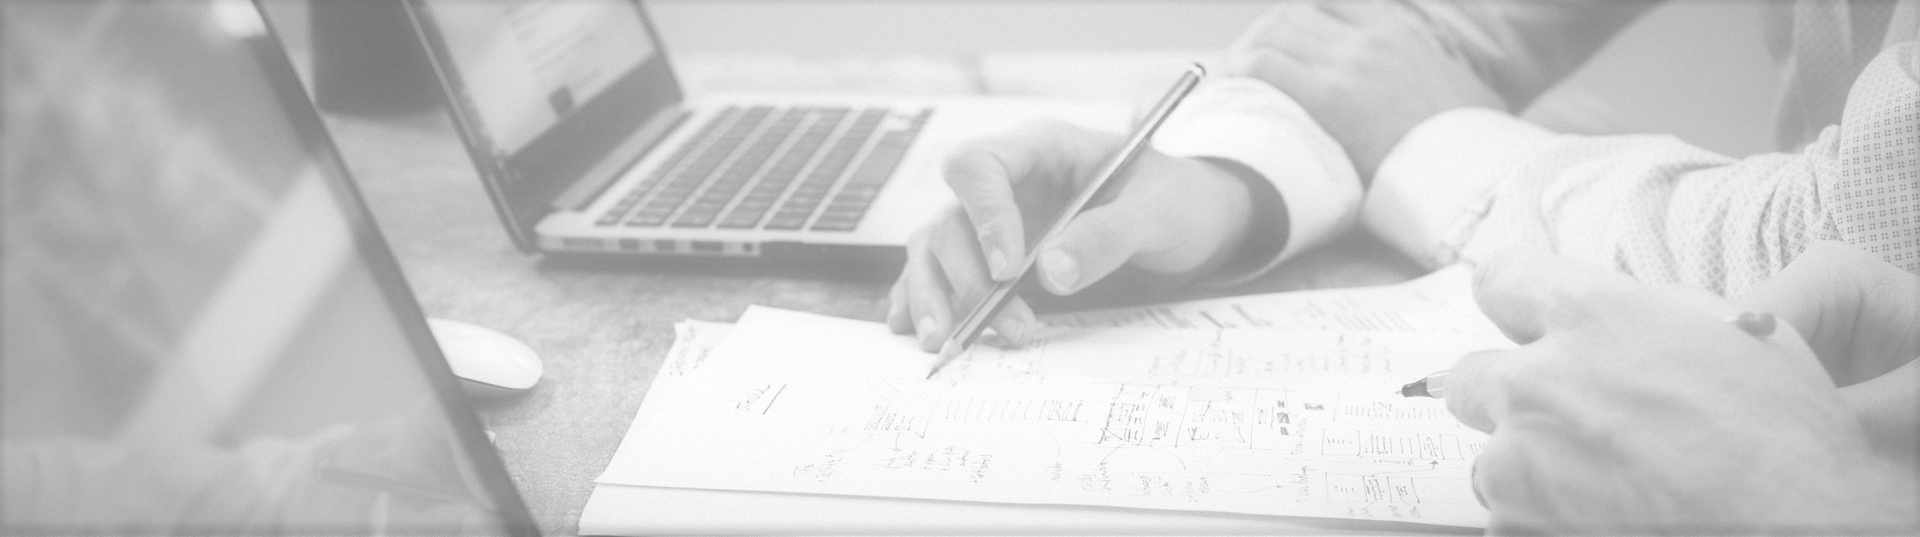
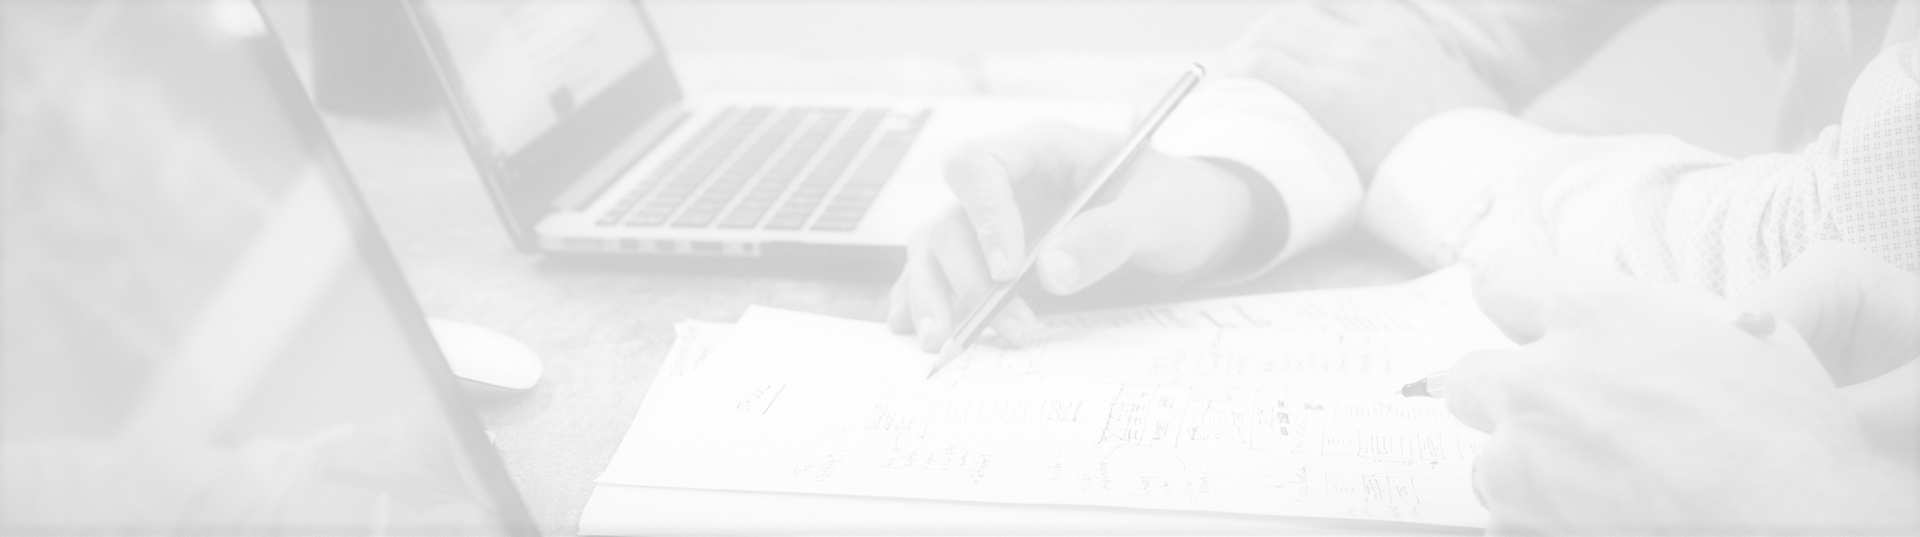
whiter picture

diff --git a/assets/css/style.scss b/assets/css/style.scss
@@ -11,7 +11,7 @@
   display: block;
   margin-top: 1.5rem;
   background: url(/assets/images/bg-2.jpg) center top no-repeat;
-  background-color: #333;
+  background-color: #ffff;
   color: #991578;
 }
 
